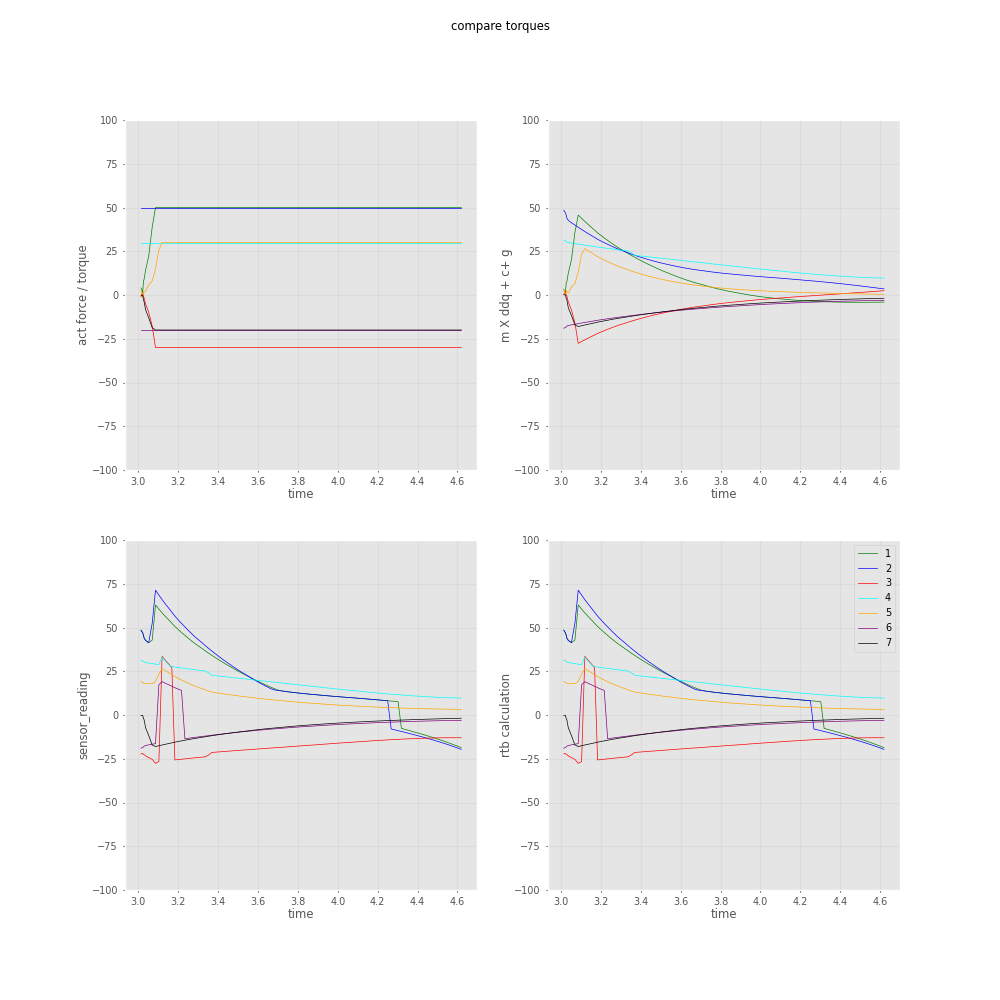
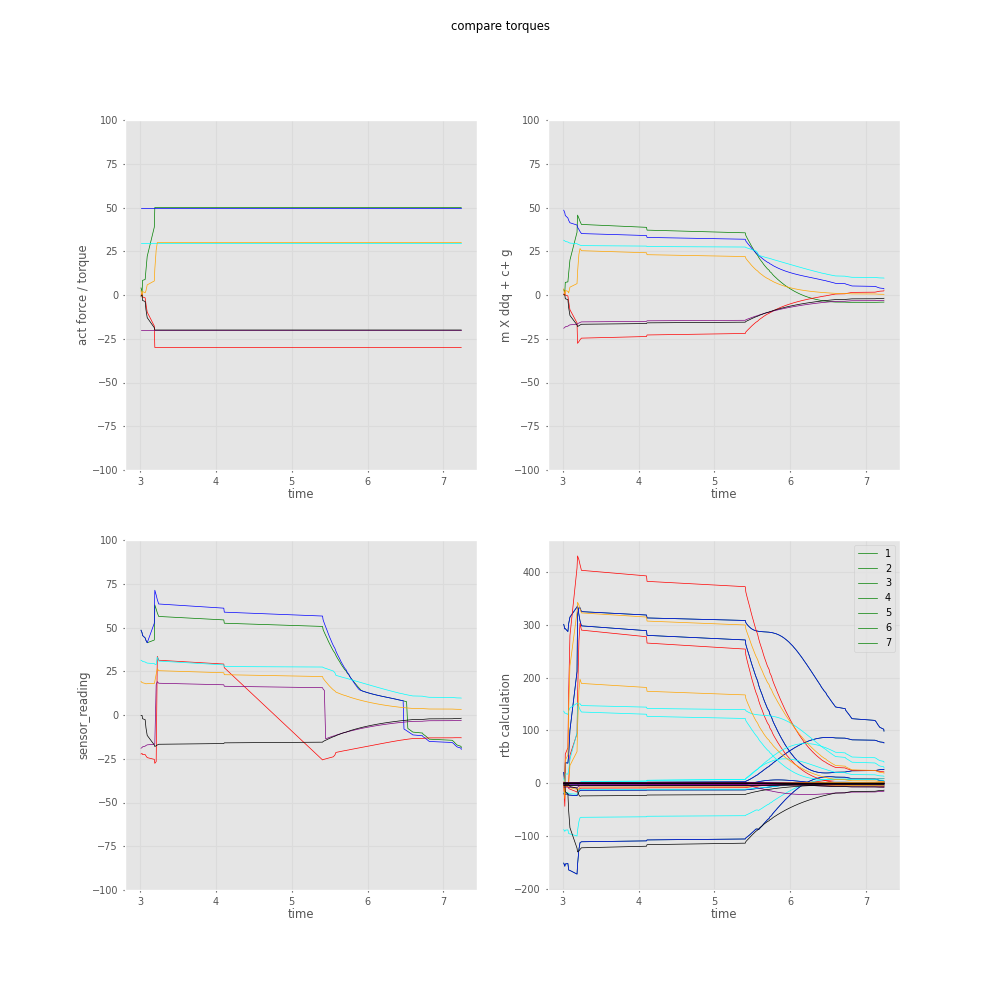
added torque sensors

diff --git a/robot.py b/robot.py
@@ -147,10 +147,21 @@ class RoboEnv(MuJoCoBase):
         pose = self.robot.fkine(q_mujoco)
         return pose, pose.t, pose.R
 
-    def get_rtb_jacobian(self)
+    def get_rtb_jacobian(self):
+        q = self.get_joint_positions()
+        J = self.robot_rtb.jacob0(q)
+        return J
 
     def get_rtb_joint_torque(self):
-        pass
+        q = self.get_joint_positions()
+        dq = self.get_joint_vel()
+        ddq = self.get_joint_acc()
+
+        M = self.robot_dh.inertia(q)
+        C = self.robot_dh.coriolis(q, dq)
+        G = self.robot_dh.gravload(q)
+        T = M * ddq +C +G
+        return T
 
 
 

diff --git a/run_controller.py b/run_controller.py
@@ -37,7 +37,7 @@ def generate_save_plt(x, y1, y2, y3, y4, title, axis_names, legend, time1, time2
     axs[0, 0].set_ylim(-100, 100)  # Example y-limits
     axs[0, 1].set_ylim(-100, 100)
     axs[1, 0].set_ylim(-100, 100)
-    axs[1, 1].set_ylim(-100, 100)
+    # axs[1, 1].set_ylim(-1000, 100)
         # axs[1].legend(legend)
 
     fig.suptitle(title)
